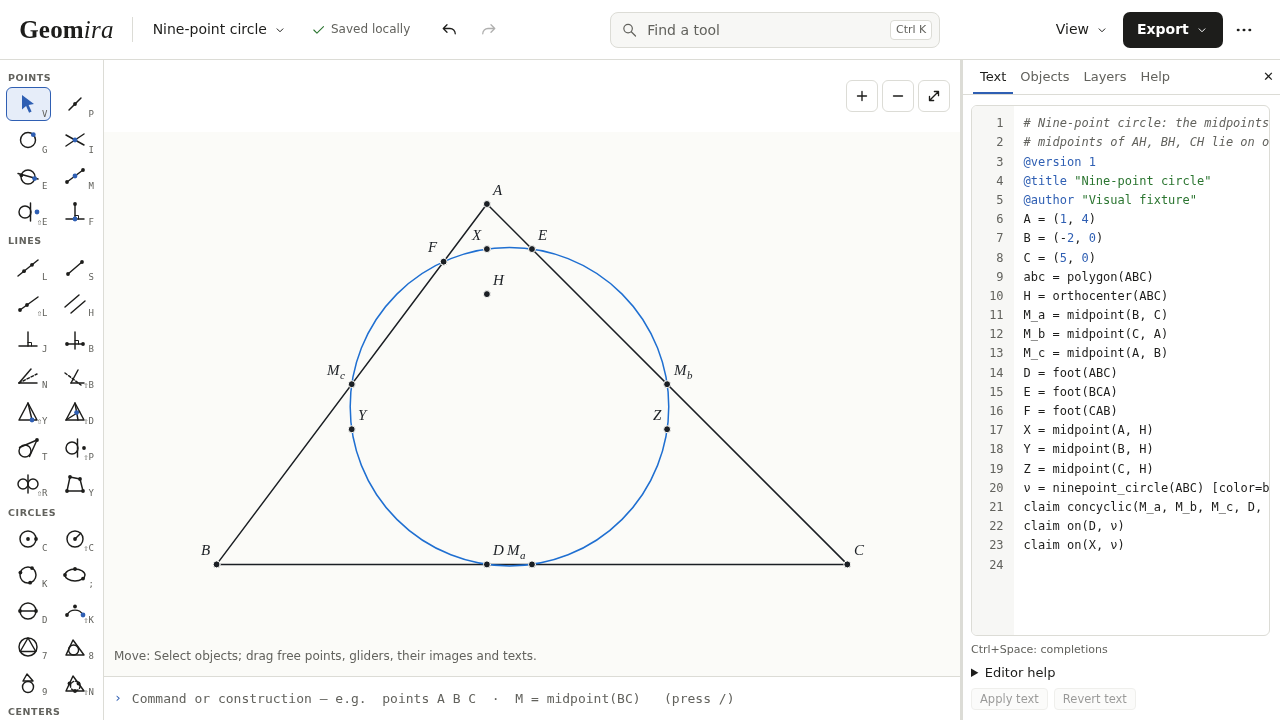
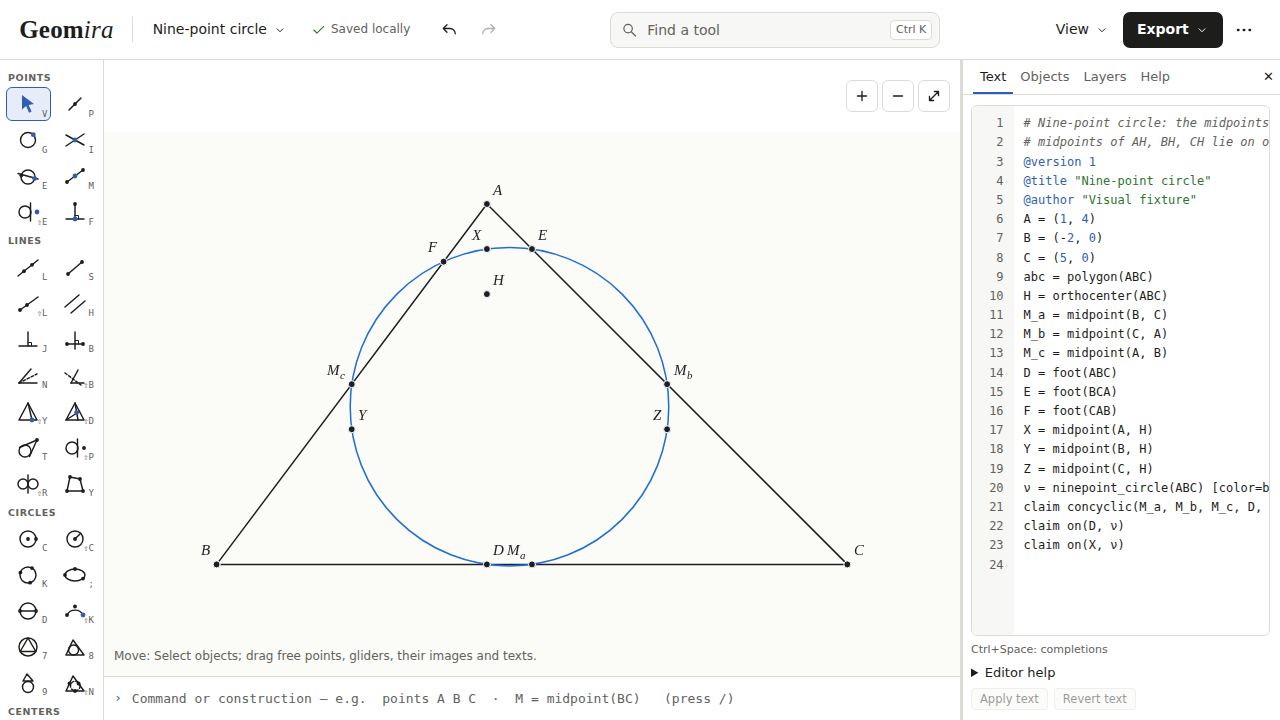
Use the reviewed public toolbar captures and update workspace help (ADR-0078)

diff --git a/apps/web/src/panels/HelpPanel.tsx b/apps/web/src/panels/HelpPanel.tsx
@@ -33,9 +33,9 @@ export function HelpPanel() {
       </p>
       <p>
         Move: left-drag empty canvas to box-select; Shift adds to selection. Right or middle drag
-        pans, and touch pans or pinches to zoom. The Pan button also pans over points. Escape
+        pans, and touch pans or pinches to zoom. Choose View → Pan canvas to pan over points. Escape
         cancels picks and 0 fits the figure. Select one object and choose Properties; right-click or
-        long-press remains available. Search tools by name above the canvas.
+        long-press remains available. Press Ctrl+K (⌘K on Mac) to search tools by name.
       </p>
       <AboutSection />
     </div>

diff --git a/docs/STATUS.md b/docs/STATUS.md
@@ -11,7 +11,11 @@ contains the workspace controls and More contains examples, help and settings.
 The public and internal hosted and single-file builds completed. Chromium checks
 cover the header from 320 to 1440 px, keyboard tool search, document recovery and
 draft input. The reduced header height also changes the fitted drawing area.
-The 25 screenshot references cover the full workspace, fitted scenes and PNG exports.
+All 33 local visual comparisons passed across 25 workspace, fitted-scene and
+PNG export references. The five GUI comparisons and four WebKit focus checks passed in
+[GUI run 44506157895](https://github.com/youseng/geomira/actions/runs/44506157895).
+Its native public desktop and phone captures are the committed public references.
+The shipped desktop screenshot matches the desktop reference byte for byte.
 
 Frozen test changes under ADR-0078:
 

diff --git a/docs/workspace.md b/docs/workspace.md
@@ -17,7 +17,7 @@ and do not add geometry undo entries.
 
 On phones, a tab opens a panel in the scrollable page. **Expand panel** and **Compact
 panel** change its editing space. The figure stays above it; scroll down to tools and the
-command bar, or use **Hide panels** to return to drawing. At short heights, **Tools** reveals
+command bar, or use **Hide panels** to return to drawing. At short heights, **View → Show all tools** reveals
 the complete palette. Source and exposed drawing space each retain at least 120 pixels;
 **Editor help** expands shortcut/formatting details. Native keyboard behavior depends on
 the actual browser/device.
